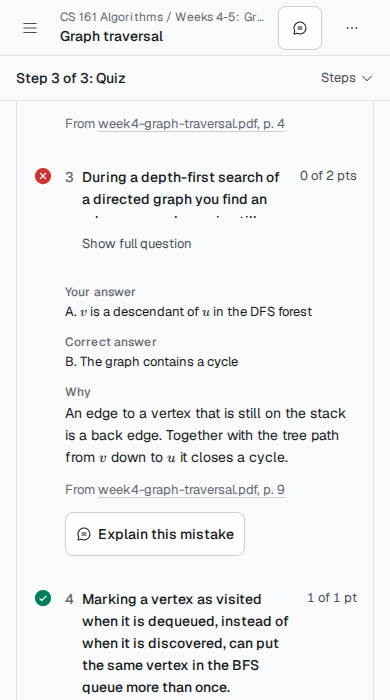
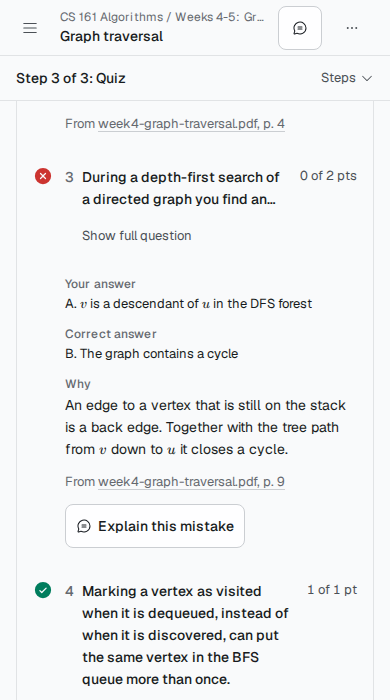
Landing on phones: one framed hero preview with no link out; steps open smoothly with their pictures already loaded; collapsed questions end on whole lines

diff --git a/frontend/src/features/marketing/loop.tsx b/frontend/src/features/marketing/loop.tsx
@@ -105,6 +105,79 @@ function useLoopAutoplay(steps: number, zone: React.RefObject<HTMLElement | null
 }
 
 /**
+ * The phone list of steps. Each step is a button that opens its panel; the panel grows from no height (0fr to 1fr rows)
+ * instead of appearing at once. Closed panels stay in the page (inert, so not read or tabbed into), which lets their
+ * pictures load as the list scrolls into view rather than after the tap. Several can be open at a time, so opening a
+ * step never closes one above it and pulls the page up under the finger.
+ */
+function PhoneSteps({ steps }: { steps: LoopStep[] }) {
+  const [open, setOpen] = React.useState<ReadonlySet<number>>(() => new Set([0]))
+  const toggle = (index: number) =>
+    setOpen((previous) => {
+      const next = new Set(previous)
+      if (next.has(index)) next.delete(index)
+      else next.add(index)
+      return next
+    })
+  return (
+    <ol className="flex flex-col border-t border-border lg:hidden">
+      {steps.map((step, index) => {
+        const expanded = open.has(index)
+        return (
+          <li key={step.id} className="border-b border-border">
+            <h3>
+              <button
+                type="button"
+                id={`loop-step-${step.id}`}
+                aria-expanded={expanded}
+                aria-controls={`loop-step-panel-${step.id}`}
+                onClick={() => toggle(index)}
+                className="flex min-h-11 w-full items-center justify-between gap-4 rounded-chip py-4 text-left text-heading text-fg"
+              >
+                <span>
+                  <span aria-hidden="true" className="tabular mr-3 text-fg-3">
+                    {index + 1}
+                  </span>
+                  {step.title}
+                </span>
+                <CaretDown
+                  aria-hidden="true"
+                  className={cn('size-4 shrink-0 text-fg-3 transition-transform duration-240 ease-enter motion-reduce:transition-none', expanded && 'rotate-180')}
+                />
+              </button>
+            </h3>
+            <div
+              id={`loop-step-panel-${step.id}`}
+              role="region"
+              aria-labelledby={`loop-step-${step.id}`}
+              inert={!expanded}
+              className={cn(
+                'grid transition-[grid-template-rows,opacity] ease-enter motion-reduce:transition-none',
+                expanded ? 'grid-rows-[1fr] opacity-100 duration-300' : 'grid-rows-[0fr] opacity-0 duration-240'
+              )}
+            >
+              <div className="min-h-0 overflow-hidden">
+                <p className="max-w-[52ch] pb-1 text-reading text-fg-2">{step.text}</p>
+                <div className={cn(FRAME, 'mx-auto my-5 max-w-[420px] md:max-w-none')}>
+                  <Shot
+                    name={step.shot}
+                    mobile
+                    desktopMedia="(min-width: 768px) and (max-width: 1023px)"
+                    alt={step.alt}
+                    sizes={SLOT_SIZES.loopList}
+                    className="h-auto w-full"
+                  />
+                </div>
+              </div>
+            </div>
+          </li>
+        )
+      })}
+    </ol>
+  )
+}
+
+/**
  * The loop from files to exam day. On a wide screen it is a list of steps with one screenshot beside it
  * (a vertical tab list: arrow keys move between steps, and the open step explains itself). Once it is
  * in view it steps through the six by itself, once (see loop-autoplay.ts), with a pause button. On a
@@ -270,36 +343,9 @@ export function Loop({ steps }: { steps: LoopStep[] }) {
         </div>
       </div>
 
-      {/* On a phone the six steps are a short list; one opens at a time, with its text and picture, so the
-          page is six lines long before the visitor chooses to read more. The first is open. */}
-      <ol className="flex flex-col border-t border-border lg:hidden">
-        {steps.map((step, index) => (
-          <li key={step.id} className="border-b border-border">
-            <details name="loop-steps" open={index === 0} className="group">
-              <summary className="flex min-h-11 list-none items-center justify-between gap-4 rounded-chip py-4 text-heading text-fg marker:hidden [&::-webkit-details-marker]:hidden">
-                <span>
-                  <span aria-hidden="true" className="tabular mr-3 text-fg-3">
-                    {index + 1}
-                  </span>
-                  {step.title}
-                </span>
-                <CaretDown aria-hidden="true" className="size-4 shrink-0 text-fg-3 transition-transform duration-180 group-open:rotate-180" />
-              </summary>
-              <p className="max-w-[52ch] pb-1 text-reading text-fg-2">{step.text}</p>
-              <div className={cn(FRAME, 'mx-auto my-5 max-w-[420px] md:max-w-none')}>
-                <Shot
-                  name={step.shot}
-                  mobile
-                  desktopMedia="(min-width: 768px) and (max-width: 1023px)"
-                  alt={step.alt}
-                  sizes={SLOT_SIZES.loopList}
-                  className="h-auto w-full"
-                />
-              </div>
-            </details>
-          </li>
-        ))}
-      </ol>
+      {/* On a phone the six steps are a short list, each opening to its text and picture, so the page is six lines long
+          before the visitor chooses to read more. The first is open. */}
+      <PhoneSteps steps={steps} />
     </>
   )
 }

diff --git a/frontend/src/app/(marketing)/page.tsx b/frontend/src/app/(marketing)/page.tsx
@@ -9,8 +9,7 @@ import { EVAL_FACTS, FAQ, LINKS, LOOP_STEPS } from '@/features/marketing/content
 import { Loop } from '@/features/marketing/loop'
 import { SectionArrival, SectionLink } from '@/features/marketing/section-link'
 import { Shot } from '@/features/marketing/shot'
-import SCREENS from '@/features/marketing/screens.json'
-import { SLOT_SIZES, screenFile, type ScreensManifest } from '@/features/marketing/shot-sources'
+import { SLOT_SIZES } from '@/features/marketing/shot-sources'
 
 export const metadata: Metadata = {
   // "Margins" alone is a common word, so the home title also says what the product makes.
@@ -110,36 +109,21 @@ function Hero() {
           <HeroActions />
         </div>
         {/*
-          On a phone the preview is the top of the Plan page (Today) drawn edge to edge, so its 12px captions are 12px on a 390px
-          screen instead of shrinking with the page margins, with a link to the whole screen. From 768px it is the whole desktop crop.
+          On a phone the preview is the phone version of the Plan page in a screen-like frame: the page's top down to today's
+          first tasks, closed by a short fade, so it reads as one picture rather than a cut-off page. From 768px it is the
+          whole desktop crop.
         */}
-        <div className="max-md:-mx-4">
-          <div className="relative mx-auto w-full max-w-[420px] overflow-hidden rounded-card border border-border bg-surface max-md:max-h-[380px] max-md:max-w-none max-md:rounded-none max-md:border-x-0 md:max-w-none">
-            <Shot
-              name="plan"
-              mobile
-              eager
-              alt="The Margins plan page. Today lists a review and a quiz, and the days after it lead to the exam date."
-              sizes={SLOT_SIZES.hero}
-              mobileSizes="100vw"
-              className="h-auto w-full"
-            />
-            <div aria-hidden="true" className="pointer-events-none absolute inset-x-0 bottom-0 h-16 bg-gradient-to-t from-surface to-transparent md:hidden" />
-          </div>
-          <p className="mt-3 px-4 md:hidden">
-            {(['light', 'dark'] as const).map((theme) => (
-              <span key={theme} className={theme === 'light' ? 'dark:hidden' : 'hidden dark:inline'}>
-                <a
-                  href={screenFile('plan-mobile', theme, Math.max(...(SCREENS as ScreensManifest)['plan-mobile'].widths))}
-                  target="_blank"
-                  rel="noopener noreferrer"
-                  className={link}
-                >
-                  See the whole plan screen <ArrowUpRight aria-hidden="true" className="size-3.5" />
-                </a>
-              </span>
-            ))}
-          </p>
+        <div className="relative mx-auto w-full max-w-[420px] overflow-hidden rounded-card border border-border bg-surface max-md:aspect-[390/540] max-md:max-w-[340px] max-md:shadow-sm md:max-w-none">
+          <Shot
+            name="plan"
+            mobile
+            eager
+            alt="The Margins plan page. Today lists a review and a quiz, and the days after it lead to the exam date."
+            sizes={SLOT_SIZES.hero}
+            mobileSizes="340px"
+            className="h-auto w-full"
+          />
+          <div aria-hidden="true" className="pointer-events-none absolute inset-x-0 bottom-0 h-20 bg-gradient-to-t from-surface to-transparent md:hidden" />
         </div>
       </div>
     </section>

diff --git a/frontend/tests/e2e/landing.spec.ts b/frontend/tests/e2e/landing.spec.ts
@@ -94,13 +94,23 @@ test('on a phone every step shows its own phone-sized screenshot', async ({ page
   await expect(page.getByRole('tablist')).toBeHidden()
   const steps = page.locator('#how-it-works ol > li')
   await expect(steps).toHaveCount(6)
-  // One step is open at a time (the first); the rest are a line each until opened.
-  await expect(steps.locator('details[open]')).toHaveCount(1)
-  await steps.nth(2).locator('summary').click()
-  await expect(steps.locator('details[open]')).toHaveCount(1)
+  // The first step is open; the rest are a line each until opened.
+  const toggles = steps.locator('button[aria-expanded]')
+  await expect(toggles.and(page.locator('[aria-expanded="true"]'))).toHaveCount(1)
+  // A closed step's picture is already in the page and loaded once the list is in view, so opening it never shows an empty
+  // frame (the theme on show is the one that loads).
   await steps.nth(2).scrollIntoViewIfNeeded()
-  const image = steps.nth(2).locator('img:visible')
+  const loadedBeforeOpen = steps.nth(2).locator('picture:visible img')
+  await expect.poll(() => loadedBeforeOpen.evaluate((node: HTMLImageElement) => node.complete && node.naturalWidth > 0)).toBe(true)
+  await toggles.nth(2).click()
+  await expect(toggles.nth(2)).toHaveAttribute('aria-expanded', 'true')
+  // Opening a step leaves the one above it open, so nothing above the tapped step moves.
+  await expect(toggles.nth(0)).toHaveAttribute('aria-expanded', 'true')
+  await steps.nth(2).scrollIntoViewIfNeeded()
+  const image = steps.nth(2).locator('picture:visible img')
   await expect(image).toHaveCount(1)
+  // The panel finishes opening to the picture's full height.
+  await expect.poll(async () => (await steps.nth(2).getByRole('region').boundingBox())?.height ?? 0).toBeGreaterThan(300)
   // The phone picture is used (390 px page, 2x), and it is shown near its natural size, not shrunk to a thumbnail.
   await expect.poll(() => image.evaluate((node: HTMLImageElement) => node.complete && node.naturalWidth > 0)).toBe(true)
   const shown = await image.evaluate((node: HTMLImageElement) => node.getBoundingClientRect().width)

diff --git a/frontend/src/components/learning/review-item.tsx b/frontend/src/components/learning/review-item.tsx
@@ -190,7 +190,16 @@ export function ReviewItem({
           <div className="flex min-w-0 flex-1 items-start gap-2 text-body-strong text-fg">
             <span className="tabular text-fg-3">{number}</span>
             <div className="min-w-0 flex-1">
-              <div id={questionId} className={cn(longQuestion && !questionOpen && 'max-h-[3.25rem] overflow-hidden')}>
+              <div
+                id={questionId}
+                className={cn(
+                  longQuestion &&
+                    !questionOpen &&
+                    // Two whole lines, never a sliver of the third: plain text is clamped by line; a question with blocks
+                    // (a list, a formula) is cut by height and fades out over its last line instead.
+                    (blocks ? 'max-h-[3.25rem] overflow-hidden [mask-image:linear-gradient(to_bottom,black_45%,transparent)]' : 'line-clamp-2')
+                )}
+              >
                 {blocks ? <QuestionText compact>{questionText}</QuestionText> : <MathText>{questionText}</MathText>}
               </div>
               {longQuestion ? (
